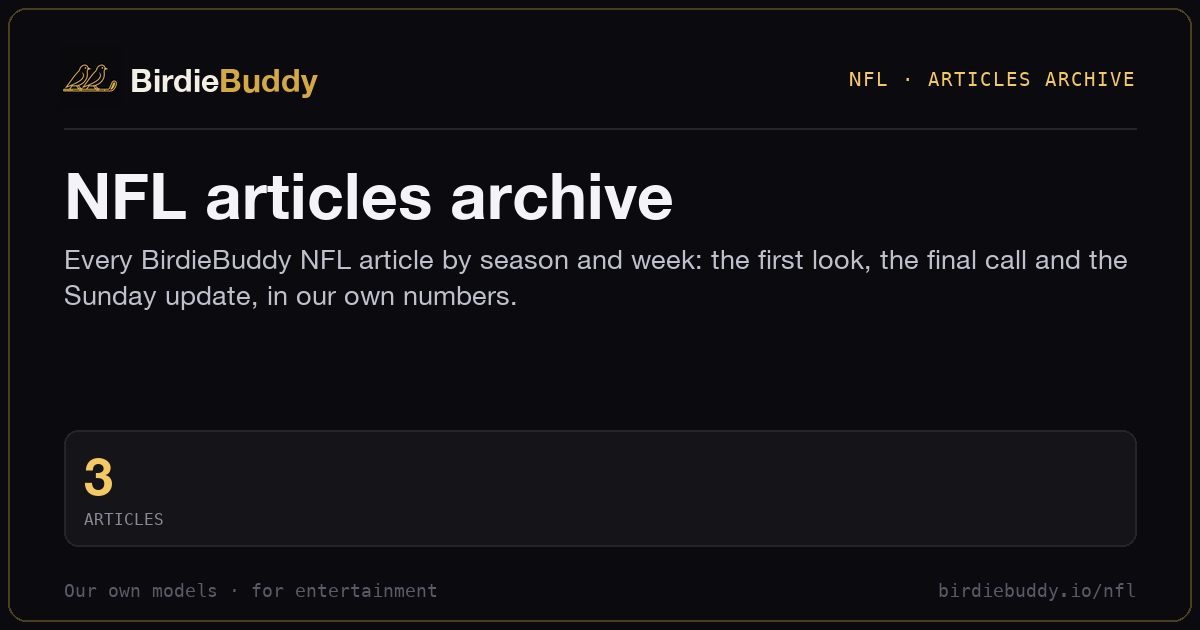
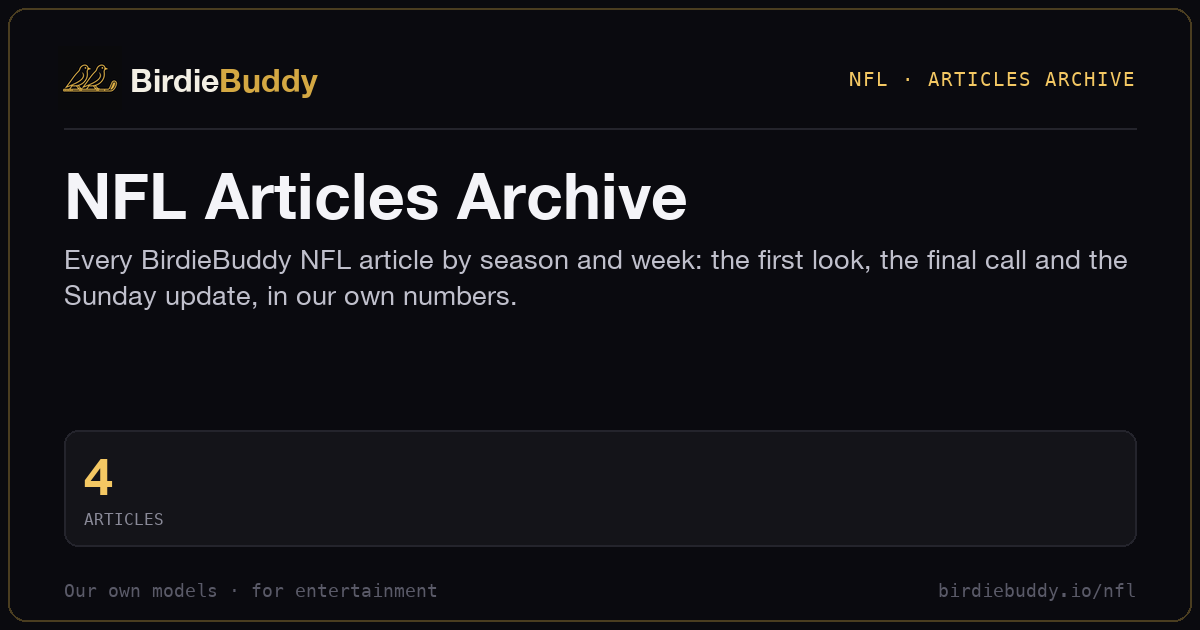
NFL: TNF CAR@GB write-up; article hero cards + clean canonical URLs; sitemap clean URLs + root/golf pages; robots sitemap line

Changed region(s): [[0.1542, 0.2714, 0.5858, 0.3619], [0.0617, 0.7238, 0.0925, 0.7841]]

diff --git a/nfl/articles/2026-week-8-tnf-car-gb.html b/nfl/articles/2026-week-8-tnf-car-gb.html
@@ -1,0 +1,91 @@
+<!doctype html>
+<html lang="en">
+<head>
+  <meta charset="utf-8" />
+  <meta name="viewport" content="width=device-width, initial-scale=1" />
+  <base href="/" />
+  <title>TNF showdown: the field captains Green Bay; Carolina&#x27;s upset is 26% · BirdieBuddy NFL</title>
+  <link rel="icon" type="image/png" sizes="32x32" href="assets/img/favicon-32.png">
+  <link rel="apple-touch-icon" sizes="180x180" href="assets/img/apple-touch-icon.png">
+  <link rel="preconnect" href="https://fonts.googleapis.com" />
+  <link rel="preconnect" href="https://fonts.gstatic.com" crossorigin />
+  <link href="https://fonts.googleapis.com/css2?family=Inter:wght@400;500;600;700;800&family=JetBrains+Mono:wght@400;500;600&display=swap" rel="stylesheet" />
+  <link rel="stylesheet" href="assets/css/design-system.css" />
+  <link rel="stylesheet" href="assets/css/components.css" />
+  <link rel="stylesheet" href="assets/css/nfl.css?v=0.6.4" />
+  <link rel="stylesheet" href="nfl/articles/articles.css?v=3" />
+  <!-- bbi-seo -->
+  <link rel="canonical" href="https://birdiebuddy.io/nfl/articles/2026-week-8-tnf-car-gb">
+  <meta name="description" content="The three most popular captains are all Packers, but the market gives Carolina a 26% chance to win by 4+. McMillan and Hubbard are the way in.">
+  <meta property="og:type" content="article">
+  <meta property="og:site_name" content="BirdieBuddy">
+  <meta property="og:title" content="TNF showdown: the field captains Green Bay; Carolina&#x27;s upset is 26%">
+  <meta property="og:description" content="The three most popular captains are all Packers, but the market gives Carolina a 26% chance to win by 4+. McMillan and Hubbard are the way in.">
+  <meta property="og:url" content="https://birdiebuddy.io/nfl/articles/2026-week-8-tnf-car-gb">
+  <meta property="og:image" content="https://birdiebuddy.io/nfl/og/2026-week-8-tnf-car-gb.png">
+  <meta property="og:image:width" content="1200">
+  <meta property="og:image:height" content="630">
+  <meta property="og:image:alt" content="TNF showdown: the field captains Green Bay; Carolina&#x27;s upset is 26%">
+  <meta name="twitter:card" content="summary_large_image">
+  <meta name="twitter:title" content="TNF showdown: the field captains Green Bay; Carolina&#x27;s upset is 26%">
+  <meta name="twitter:description" content="The three most popular captains are all Packers, but the market gives Carolina a 26% chance to win by 4+. McMillan and Hubbard are the way in.">
+  <meta name="twitter:image" content="https://birdiebuddy.io/nfl/og/2026-week-8-tnf-car-gb.png">
+  <!-- /bbi-seo -->
+</head>
+<body class="art-body">
+  <div id="site-header"><nav class="nfl-nav" aria-label="NFL"><div class="nfl-nav-inner"><a href="nfl/" class="brand nfl-brand"><img class="brand-mark-img" src="assets/img/mark-gold.svg" alt="" width="52" height="26" /><span class="brand-lockup">BirdieBuddy</span><span class="nfl-tag">NFL</span></a><div class="nfl-links"><a class="nfl-link" href="nfl/slate/">This week</a><a class="nfl-link active" href="nfl/articles/">Articles</a></div></div></nav></div>
+  <main class="container art-wrap art-page">
+    <nav class="art-crumbs"><a href="nfl/">NFL</a><span>/</span><a href="nfl/articles/">Articles</a></nav>
+    <article class="art">
+      <header class="art-head">
+        <div class="eyebrow">2026 · Week 8 · TNF showdown</div>
+        <h1>TNF showdown: the field captains Green Bay; Carolina&#x27;s upset is 26%</h1>
+        <p class="art-dek">The three most popular captains are all Packers, but the market gives Carolina a 26% chance to win by 4+. McMillan and Hubbard are the way in.</p>
+        <div class="art-byline"><time datetime="2026-10-29">Thu Oct 29, 2026</time> · CAR @ GB, kickoff Thu 8:15 PM ET · BirdieBuddy NFL · numbers as of 2026-10-29 19:16 UTC</div>
+      </header>
+      <figure class="art-hero-img has-img is-card" data-hero-slot="2026-week-8-tnf-car-gb"><img src="nfl/og/2026-week-8-tnf-car-gb.png" alt="TNF showdown: the field captains Green Bay; Carolina&#x27;s upset is 26%" width="1200" height="630" decoding="async"></figure>
+      <div class="art-body-md">
+<p>Green Bay is favored by 4, yet the market gives Carolina a 26% chance to win by 4+, more than a Packers blowout at 23%. The crowd doesn't care: the three most popular captains are all Packers, led by <strong>Jordan Love</strong> at a projected 15%.</p>
+<h2 id="tl-dr">TL;DR</h2>
+<ul><li>Start with Tetairoa McMillan at captain: a projected 9% captain ownership, and Carolina wins by 4+ in 26% of outcomes.</li><li>Eat Jordan Love at FLEX: he projects at 68% owned, the top projection on the board at 17.8.</li><li>Fade Josh Jacobs at captain (projected 14%) for Chuba Hubbard, a 14.9-point projection at 9%.</li></ul>
+<h2 id="the-game">The game</h2>
+<p>Green Bay is a 4-point favorite and wins 64% of the time in a deep market, with a 47 total split 25.5 to 21.6. Fav wins is the most likely flow at 28%, then Upset at 26%, Close at 24% and Blowout at 23%. <strong>Matthew Golden</strong> is Questionable with a 70% chance to play, and our showdown sim hasn't run yet, so there are no ceilings or optimal % here, only projections and ownership.</p>
+<div class="art-table art-data"><table><thead><tr><th>Game</th><th>Fav</th><th class="n">Total</th><th>Team totals</th><th title="favorite wins by 14+" class="n">Blowout</th><th title="favorite wins by 4–13" class="n">Fav wins</th><th title="within 3 either way" class="n">Close</th><th title="underdog wins by 4+" class="n">Upset</th></tr></thead><tbody><tr class="pt"><td><strong>CAR @ GB</strong><span class="sub">TNF · outdoors · wind 6 mph · 47°F</span></td><td>GB −4.0 · wins 64%</td><td class="n">47.0</td><td>CAR 21.6 · GB 25.5</td><td class="n">23%</td><td class="n">28%</td><td class="n">24%</td><td class="n">26%</td></tr></tbody></table></div><p class="art-cap">Line: market. Game-flow chances from the prediction markets: Blowout = GB wins by 14+, Fav wins = by 4–13, Close = within 3, Upset = CAR wins by 4+.</p>
+<h2 id="captain-picks">Captain picks</h2>
+<h3 id="1-tetairoa-mcmillan-car-wr">1. Tetairoa McMillan (CAR, WR)</h3>
+<ul><li><strong>Why:</strong> 13.4 points projected at a $14,100 captain salary, and he's Carolina's top receiver with Xavier Legette, Ja'seem Reed and Chris Brazzell II all Out. He wants Close or Upset, 50% combined. In our study of 41 showdown winners in games with a 3.5-6.5 point spread, 49% (k = 20) had a WR captain.</li><li><strong>Crowd:</strong> a projected 9% captain ownership. Risk: 59% of those winning captains (k = 24) came from the favorite.</li></ul>
+<h3 id="2-jordan-love-gb-qb">2. Jordan Love (GB, QB)</h3>
+<ul><li><strong>Why:</strong> the top projection at 17.8, at a $15,000 captain salary. He's the engine of a 25.5-point team total, and Fav wins plus Blowout cover 51% of outcomes.</li><li><strong>Crowd:</strong> the most popular captain at a projected 15%. Risk: at the top price, an average night sinks him.</li></ul>
+<h3 id="3-chuba-hubbard-car-rb">3. Chuba Hubbard (CAR, RB)</h3>
+<ul><li><strong>Why:</strong> 14.9 points projected, 0.4 behind Josh Jacobs, at a $13,500 captain salary. With Jonathon Brooks Out, the backfield is his, and a Close game keeps him fed.</li><li><strong>Crowd:</strong> a projected 9% captain vs 14% for Jacobs. Risk: a Green Bay blowout takes the run game away.</li></ul>
+<div class="art-table art-data"><table><thead><tr><th>Player</th><th class="n">Salary</th><th class="n">Proj</th><th>Ceiling</th><th>CPT ceiling</th><th class="n">FLEX own</th><th class="n">CPT own</th><th>FLEX optimal</th><th>CPT optimal</th></tr></thead><tbody><tr><td><strong>Jordan Love</strong><span class="sub">QB · GB</span></td><td class="n">$10,000</td><td class="n">17.8</td><td>—</td><td>—</td><td class="n">68%</td><td class="n">15%</td><td>—</td><td>—</td></tr><tr><td><strong>Bryce Young</strong><span class="sub">QB · CAR</span></td><td class="n">$9,600</td><td class="n">15.5</td><td>—</td><td>—</td><td class="n">46%</td><td class="n">10%</td><td>—</td><td>—</td></tr><tr><td><strong>Josh Jacobs</strong><span class="sub">RB · GB</span></td><td class="n">$8,800</td><td class="n">15.3</td><td>—</td><td>—</td><td class="n">36%</td><td class="n">14%</td><td>—</td><td>—</td></tr><tr><td><strong>Chuba Hubbard</strong><span class="sub">RB · CAR</span></td><td class="n">$9,000</td><td class="n">14.9</td><td>—</td><td>—</td><td class="n">33%</td><td class="n">9%</td><td>—</td><td>—</td></tr><tr><td><strong>Christian Watson</strong><span class="sub">WR · GB</span></td><td class="n">$9,800</td><td class="n">14.8</td><td>—</td><td>—</td><td class="n">37%</td><td class="n">12%</td><td>—</td><td>—</td></tr><tr><td><strong>Tetairoa McMillan</strong><span class="sub">WR · CAR</span></td><td class="n">$9,400</td><td class="n">13.4</td><td>—</td><td>—</td><td class="n">31%</td><td class="n">9%</td><td>—</td><td>—</td></tr><tr><td><strong>Tucker Kraft</strong><span class="sub">TE · GB</span></td><td class="n">$7,400</td><td class="n">13.2</td><td>—</td><td>—</td><td class="n">35%</td><td class="n">9%</td><td>—</td><td>—</td></tr><tr><td><strong>Matthew Golden</strong><span class="sub">WR · GB · Questionable</span></td><td class="n">$8,400</td><td class="n">12.4</td><td>—</td><td>—</td><td class="n">24%</td><td class="n">4%</td><td>—</td><td>—</td></tr><tr><td><strong>Jalen Coker</strong><span class="sub">WR · CAR</span></td><td class="n">$7,800</td><td class="n">10.9</td><td>—</td><td>—</td><td class="n">19%</td><td class="n">4%</td><td>—</td><td>—</td></tr><tr><td><strong>Darren Waller</strong><span class="sub">TE · CAR</span></td><td class="n">$5,400</td><td class="n">8.8</td><td>—</td><td>—</td><td class="n">22%</td><td class="n">3%</td><td>—</td><td>—</td></tr><tr><td><strong>Kedon Slovis</strong><span class="sub">QB · GB</span></td><td class="n">$6,000</td><td class="n">6.3</td><td>—</td><td>—</td><td class="n">0%</td><td class="n">0%</td><td>—</td><td>—</td></tr><tr><td><strong>Tyrod Taylor</strong><span class="sub">QB · GB</span></td><td class="n">$6,000</td><td class="n">6.3</td><td>—</td><td>—</td><td class="n">0%</td><td class="n">0%</td><td>—</td><td>—</td></tr></tbody></table></div><p class="art-cap">Salary = FLEX salary (captain costs 1.5x). Projection and ceiling: our salary + team-total projection. Own = our projected large-field ownership. — = no number yet.</p>
+<h2 id="value-plays">Value plays</h2>
+<ul><li><strong>Darren Waller</strong> (CAR, TE), $5,400: 8.8 points projected, the best value at 1.6 points per $1K, at a projected 22% FLEX. With three Carolina receivers Out, he's the second read.</li><li><strong>Savion Williams</strong> (GB, WR), $4,400: 6.1 projected at 17%. His role grows if Golden sits.</li><li><strong>MarShawn Lloyd</strong> (GB, RB), $3,800: 5.2 projected at 14%. Chris Brooks is Out, and a Blowout hands him late carries.</li></ul>
+<h2 id="chalk-we-ll-eat-chalk-we-ll-fade">Chalk we'll eat / chalk we'll fade</h2>
+<p class="art-label"><strong>Eat</strong></p>
+<ul><li><strong>Jordan Love</strong> at a projected 68% FLEX is in two of every three lineups. Fading the top projection is a bet against a 25.5-point team total.</li></ul>
+<p class="art-label"><strong>Fade</strong></p>
+<ul><li><strong>Josh Jacobs</strong> at captain, projected 14%. Pivot: <strong>Chuba Hubbard</strong>, projected 9% at captain for nearly the same points.</li><li><strong>Christian Watson</strong> at a projected 37% FLEX for $9,800 and 14.8 points. Pivot: <strong>Jalen Coker</strong>, $7,800, 10.9 projected at 19%, the cheaper way into Carolina's passing game.</li></ul>
+<h2 id="bottom-line">Bottom line</h2>
+<p>We start with McMillan at captain: the field stacks its captains on Green Bay, and Carolina wins or keeps it close in 50% of outcomes. Hubbard is the pivot off Jacobs. Check Golden before lock, because his 70% chance to play decides how Green Bay's targets split.</p>
+      </div>
+    </article>
+    <section class="art-method" id="how-we-build">
+      <h2>How we build these numbers</h2>
+      <ul>
+        <li><strong>Line and game flows</strong>: de-vigged prediction-market prices (Polymarket + Kalshi). Blowout = favorite wins by 14+, Fav wins = by 4–13, Close = within 3, Upset = underdog wins by 4+.</li>
+        <li><strong>Projections, ceilings and optimal %</strong>: our showdown simulator plays the game out in each of the four game flows, weighted by their market chances. Ceiling = about a 90th-percentile game; captain ceiling = 1.5x. Optimal % = how often a player is in the highest-scoring possible team, as captain or FLEX.</li>
+        <li><strong>Ownership</strong>: our own model, trained on DraftKings showdown results, shown as projected % for large-field contests. It ranks players well, but its levels are rough, and it under-calls late, news-driven value.</li>
+        <li><strong>The codex</strong>: our study of DraftKings showdown winning lineups (2018–25). Winner rates are shown with k and n.</li>
+      </ul>
+      <p class="art-rg">For entertainment. Not betting or financial advice. DFS involves real money and real risk. Play only what you can afford to lose, and only where it's legal (18+/21+ by state). Gambling problem? Call or text <a href="tel:18004264537">1-800-GAMBLER</a>.</p>
+    </section>
+
+    <script type="application/json" id="article-data">{"slug": "2026-week-8-tnf-car-gb", "title": "TNF showdown: the field captains Green Bay; Carolina's upset is 26%", "slot": "TNF", "week": 8, "season": 2026, "date": "2026-10-29", "game": "CAR@GB", "kickoff_et": "2026-10-29T20:15:00-04:00", "packet_generated_utc": "2026-10-29T19:16:19+00:00", "kind": "primetime showdown"}</script>
+  </main>
+  <div id="site-footer"></div>
+  <script src="assets/js/core.js"></script>
+  <script src="assets/js/nfl.js?v=0.6.4"></script>
+  <script>BBI.renderNflHeader('articles'); BBI.renderNflFooter('NFL · Articles');</script>
+</body>
+</html>

diff --git a/nfl/articles/index.html b/nfl/articles/index.html
@@ -20,8 +20,8 @@
   <link href="https://fonts.googleapis.com/css2?family=Inter:wght@400;500;600;700;800&family=JetBrains+Mono:wght@400;500;600&display=swap" rel="stylesheet" />
   <link rel="stylesheet" href="assets/css/design-system.css" />
   <link rel="stylesheet" href="assets/css/components.css" />
-  <link rel="stylesheet" href="assets/css/nfl.css?v=36cd24f753" />
-  <link rel="stylesheet" href="nfl/articles/articles.css?v=2" />
+  <link rel="stylesheet" href="assets/css/nfl.css?v=f7aa40ed0a" />
+  <link rel="stylesheet" href="nfl/articles/articles.css?v=3" />
 </head>
 <body class="art-body">
   <div id="site-header"><nav class="nfl-nav" aria-label="NFL"><div class="nfl-nav-inner"><a href="nfl/" class="brand nfl-brand"><img class="brand-mark-img" src="assets/img/mark-gold.svg" alt="" width="52" height="26" /><span class="brand-lockup">BirdieBuddy</span><span class="nfl-tag">NFL</span></a><div class="nfl-links"><a class="nfl-link" href="nfl/slate/">This week</a><a class="nfl-link active" href="nfl/articles/">Articles</a></div></div></nav></div>
@@ -32,19 +32,25 @@
       <p>Wednesday is the first look at the Sunday main slate and the primetime games. Friday is the final call, after the week's news, with the late-swap notes. Every number comes from our own market snaps, simulator and ownership model.</p>
     </section>
     <section class="art-list">
-      <a class="card card-hover art-card" href="nfl/articles/2026-week-8-wednesday.html">
+      <a class="card card-hover art-card" href="nfl/articles/2026-week-8-tnf-car-gb">
+        <div class="art-card-top"><span class="badge badge-gold">TNF</span><span class="art-card-date">Week 8 · Thu Oct 29</span></div>
+        <h3>TNF showdown: the field captains Green Bay; Carolina&#x27;s upset is 26%</h3>
+        <p>The three most popular captains are all Packers, but the market gives Carolina a 26% chance to win by 4+. McMillan and Hubbard are the way in.</p>
+        <p class="art-card-tl">Start with Tetairoa McMillan at captain: a projected 9% captain ownership, and Carolina wins by 4+ in 26% of outcomes.</p>
+      </a>
+      <a class="card card-hover art-card" href="nfl/articles/2026-week-8-wednesday">
         <div class="art-card-top"><span class="badge badge-gold">Wednesday</span><span class="art-card-date">Week 8 · Wed Oct 28</span></div>
         <h3>Week 8 first look: Dallas&#x27;s 30.9-point total and the crowd chasing it</h3>
         <p>Dallas is the slate&#x27;s best stack and the field knows it; Burrow and Lawrence offer quieter, cheaper ways to win Week 8.</p>
         <p class="art-card-tl">Stack Prescott, Lamb and Pickens: the slate&#x27;s best stack clears 75 points in 21% of sims, but expect a crowd.</p>
       </a>
-      <a class="card card-hover art-card" href="nfl/articles/2026-week-6-saturday.html">
+      <a class="card card-hover art-card" href="nfl/articles/2026-week-6-saturday">
         <div class="art-card-top"><span class="badge badge-gold">Saturday</span><span class="art-card-date">Week 6 · Sat Oct 17</span></div>
         <h3>Week 6 final read: Stafford&#x27;s stack and the Bears&#x27; QB question</h3>
         <p>LAR&#x27;s 32-point team total still leads the main slate; Chicago&#x27;s QB status is the news most likely to move builds before lock.</p>
         <p class="art-card-tl">Build around Matthew Stafford + Puka Nacua + Davante Adams: 24% of our 10,000 sims clear 75 DK points, the best rate on the slate.</p>
       </a>
-      <a class="card card-hover art-card" href="nfl/articles/2026-week-6-wednesday.html">
+      <a class="card card-hover art-card" href="nfl/articles/2026-week-6-wednesday">
         <div class="art-card-top"><span class="badge badge-gold">Wednesday</span><span class="art-card-date">Week 6 · Wed Oct 14</span></div>
         <h3>Week 6 first look: Rams at 32.5 and Cousins over Allen</h3>
         <p>The Rams&#x27; 32.5 team total anchors the slate, and the mid-owned Cousins stack clears 75 as often as the second-best Stafford build.</p>
@@ -67,7 +73,7 @@
   </main>
   <div id="site-footer"></div>
   <script src="assets/js/core.js"></script>
-  <script src="assets/js/nfl.js?v=36cd24f753"></script>
+  <script src="assets/js/nfl.js?v=f7aa40ed0a"></script>
   <script>BBI.renderNflHeader('articles'); BBI.renderNflFooter('NFL · Articles');</script>
 </body>
 </html>

diff --git a/nfl/articles/archive.html b/nfl/articles/archive.html
@@ -19,13 +19,13 @@
     .ar-week { font-family: var(--font-mono); font-size: var(--fs-2xs); color: var(--text-muted); letter-spacing: .05em; text-transform: uppercase; margin: 18px 0 6px; }
   </style>
   <!-- bbi-seo -->
-  <link rel="canonical" href="https://birdiebuddy.io/nfl/articles/archive.html">
+  <link rel="canonical" href="https://birdiebuddy.io/nfl/articles/archive">
   <meta name="description" content="Every BirdieBuddy NFL article by season and week: the first look, the final call and the Sunday update, in our own numbers.">
   <meta property="og:type" content="website">
   <meta property="og:site_name" content="BirdieBuddy">
   <meta property="og:title" content="NFL Articles Archive">
   <meta property="og:description" content="Every BirdieBuddy NFL article by season and week: the first look, the final call and the Sunday update, in our own numbers.">
-  <meta property="og:url" content="https://birdiebuddy.io/nfl/articles/archive.html">
+  <meta property="og:url" content="https://birdiebuddy.io/nfl/articles/archive">
   <meta property="og:image" content="https://birdiebuddy.io/nfl/og/articles-archive.png">
   <meta property="og:image:width" content="1200">
   <meta property="og:image:height" content="630">
@@ -48,20 +48,26 @@
     <h2 class="ar-season">2026 season</h2>
     <section class="art-list">
       <div class="ar-week">Week 8</div>
-      <a class="card card-hover art-card" href="nfl/articles/2026-week-8-wednesday.html">
+      <a class="card card-hover art-card" href="nfl/articles/2026-week-8-tnf-car-gb">
+        <div class="art-card-top"><span class="badge badge-gold">Thursday night showdown</span><span class="art-card-date">Week 8 · Thu Oct 29</span></div>
+        <h3>TNF showdown: the field captains Green Bay; Carolina&#x27;s upset is 26%</h3>
+        <p>The three most popular captains are all Packers, but the market gives Carolina a 26% chance to win by 4+. McMillan and Hubbard are the way in.</p>
+        <p class="art-card-tl">Start with Tetairoa McMillan at captain: a projected 9% captain ownership, and Carolina wins by 4+ in 26% of outcomes.</p>
+      </a>
+      <a class="card card-hover art-card" href="nfl/articles/2026-week-8-wednesday">
         <div class="art-card-top"><span class="badge badge-gold">Wednesday first look</span><span class="art-card-date">Week 8 · Wed Oct 28</span></div>
         <h3>Week 8 first look: Dallas&#x27;s 30.9-point total and the crowd chasing it</h3>
         <p>Dallas is the slate&#x27;s best stack and the field knows it; Burrow and Lawrence offer quieter, cheaper ways to win Week 8.</p>
         <p class="art-card-tl">Stack Prescott, Lamb and Pickens: the slate&#x27;s best stack clears 75 points in 21% of sims, but expect a crowd.</p>
       </a>
       <div class="ar-week">Week 6</div>
-      <a class="card card-hover art-card" href="nfl/articles/2026-week-6-saturday.html">
+      <a class="card card-hover art-card" href="nfl/articles/2026-week-6-saturday">
         <div class="art-card-top"><span class="badge badge-gold">Saturday final read</span><span class="art-card-date">Week 6 · Sat Oct 17</span></div>
         <h3>Week 6 final read: Stafford&#x27;s stack and the Bears&#x27; QB question</h3>
         <p>LAR&#x27;s 32-point team total still leads the main slate; Chicago&#x27;s QB status is the news most likely to move builds before lock.</p>
         <p class="art-card-tl">Build around Matthew Stafford + Puka Nacua + Davante Adams: 24% of our 10,000 sims clear 75 DK points, the best rate on the slate.</p>
       </a>
-      <a class="card card-hover art-card" href="nfl/articles/2026-week-6-wednesday.html">
+      <a class="card card-hover art-card" href="nfl/articles/2026-week-6-wednesday">
         <div class="art-card-top"><span class="badge badge-gold">Wednesday first look</span><span class="art-card-date">Week 6 · Wed Oct 14</span></div>
         <h3>Week 6 first look: Rams at 32.5 and Cousins over Allen</h3>
         <p>The Rams&#x27; 32.5 team total anchors the slate, and the mid-owned Cousins stack clears 75 as often as the second-best Stafford build.</p>

diff --git a/nfl/articles/2026-week-8-wednesday.html b/nfl/articles/2026-week-8-wednesday.html
@@ -12,16 +12,16 @@
   <link href="https://fonts.googleapis.com/css2?family=Inter:wght@400;500;600;700;800&family=JetBrains+Mono:wght@400;500;600&display=swap" rel="stylesheet" />
   <link rel="stylesheet" href="assets/css/design-system.css" />
   <link rel="stylesheet" href="assets/css/components.css" />
-  <link rel="stylesheet" href="assets/css/nfl.css?v=36cd24f753" />
-  <link rel="stylesheet" href="nfl/articles/articles.css?v=2" />
+  <link rel="stylesheet" href="assets/css/nfl.css?v=f7aa40ed0a" />
+  <link rel="stylesheet" href="nfl/articles/articles.css?v=3" />
   <!-- bbi-seo -->
-  <link rel="canonical" href="https://birdiebuddy.io/nfl/articles/2026-week-8-wednesday.html">
+  <link rel="canonical" href="https://birdiebuddy.io/nfl/articles/2026-week-8-wednesday">
   <meta name="description" content="Dallas is the slate&#x27;s best stack and the field knows it; Burrow and Lawrence offer quieter, cheaper ways to win Week 8.">
   <meta property="og:type" content="article">
   <meta property="og:site_name" content="BirdieBuddy">
   <meta property="og:title" content="Week 8 first look: Dallas&#x27;s 30.9-point total and the crowd chasing it">
   <meta property="og:description" content="Dallas is the slate&#x27;s best stack and the field knows it; Burrow and Lawrence offer quieter, cheaper ways to win Week 8.">
-  <meta property="og:url" content="https://birdiebuddy.io/nfl/articles/2026-week-8-wednesday.html">
+  <meta property="og:url" content="https://birdiebuddy.io/nfl/articles/2026-week-8-wednesday">
   <meta property="og:image" content="https://birdiebuddy.io/nfl/og/2026-week-8-wednesday.png">
   <meta property="og:image:width" content="1200">
   <meta property="og:image:height" content="630">
@@ -43,7 +43,7 @@
         <p class="art-dek">Dallas is the slate&#x27;s best stack and the field knows it; Burrow and Lawrence offer quieter, cheaper ways to win Week 8.</p>
         <div class="art-byline"><time datetime="2026-10-28">Wed Oct 28, 2026</time> · BirdieBuddy NFL · numbers as of 2026-10-28 23:30 UTC</div>
       </header>
-      <figure class="art-hero-img is-placeholder" data-hero-slot="2026-week-8-wednesday" aria-hidden="true"><div class="art-hero-ph"><img class="art-hero-mark" src="assets/img/mark-gold.svg" alt="" width="52" height="26"><span class="art-hero-k">BirdieBuddy NFL</span><span class="art-hero-l">Week 8 · Wednesday first look</span></div></figure>
+      <figure class="art-hero-img has-img is-card" data-hero-slot="2026-week-8-wednesday"><img src="nfl/og/2026-week-8-wednesday.png" alt="Week 8 first look: Dallas&#x27;s 30.9-point total and the crowd chasing it" width="1200" height="630" decoding="async"></figure>
       <div class="art-body-md">
 <p>Dallas carries a 30.9-point team total, the biggest on the main slate, and its top stack clears 75 DK points in 21% of our 10,000 sims. The field sees it too: <strong>CeeDee Lamb</strong> projects at 33% owned and <strong>Dak Prescott</strong> at 26%, both higher in single entry. We build Dallas, then look for quieter routes around it.</p>
 <h2 id="tl-dr">TL;DR</h2>
@@ -101,7 +101,7 @@
   </main>
   <div id="site-footer"></div>
   <script src="assets/js/core.js"></script>
-  <script src="assets/js/nfl.js?v=36cd24f753"></script>
+  <script src="assets/js/nfl.js?v=f7aa40ed0a"></script>
   <script>BBI.renderNflHeader('articles'); BBI.renderNflFooter('NFL · Articles');</script>
 </body>
 </html>

diff --git a/nfl/articles/2026-week-6-saturday.html b/nfl/articles/2026-week-6-saturday.html
@@ -15,13 +15,13 @@
   <link rel="stylesheet" href="assets/css/nfl.css?v=0.6.3" />
   <link rel="stylesheet" href="nfl/articles/articles.css?v=1" />
   <!-- bbi-seo -->
-  <link rel="canonical" href="https://birdiebuddy.io/nfl/articles/2026-week-6-saturday.html">
+  <link rel="canonical" href="https://birdiebuddy.io/nfl/articles/2026-week-6-saturday">
   <meta name="description" content="LAR&#x27;s 32-point team total still leads the main slate; Chicago&#x27;s QB status is the news most likely to move builds before lock.">
   <meta property="og:type" content="article">
   <meta property="og:site_name" content="BirdieBuddy">
   <meta property="og:title" content="Week 6 final read: Stafford&#x27;s stack and the Bears&#x27; QB question">
   <meta property="og:description" content="LAR&#x27;s 32-point team total still leads the main slate; Chicago&#x27;s QB status is the news most likely to move builds before lock.">
-  <meta property="og:url" content="https://birdiebuddy.io/nfl/articles/2026-week-6-saturday.html">
+  <meta property="og:url" content="https://birdiebuddy.io/nfl/articles/2026-week-6-saturday">
   <meta property="og:image" content="https://birdiebuddy.io/nfl/og/2026-week-6-saturday.png">
   <meta property="og:image:width" content="1200">
   <meta property="og:image:height" content="630">

diff --git a/nfl/articles/2026-week-6-wednesday.html b/nfl/articles/2026-week-6-wednesday.html
@@ -15,13 +15,13 @@
   <link rel="stylesheet" href="assets/css/nfl.css?v=0.6.3" />
   <link rel="stylesheet" href="nfl/articles/articles.css?v=1" />
   <!-- bbi-seo -->
-  <link rel="canonical" href="https://birdiebuddy.io/nfl/articles/2026-week-6-wednesday.html">
+  <link rel="canonical" href="https://birdiebuddy.io/nfl/articles/2026-week-6-wednesday">
   <meta name="description" content="The Rams&#x27; 32.5 team total anchors the slate, and the mid-owned Cousins stack clears 75 as often as the second-best Stafford build.">
   <meta property="og:type" content="article">
   <meta property="og:site_name" content="BirdieBuddy">
   <meta property="og:title" content="Week 6 first look: Rams at 32.5 and Cousins over Allen">
   <meta property="og:description" content="The Rams&#x27; 32.5 team total anchors the slate, and the mid-owned Cousins stack clears 75 as often as the second-best Stafford build.">
-  <meta property="og:url" content="https://birdiebuddy.io/nfl/articles/2026-week-6-wednesday.html">
+  <meta property="og:url" content="https://birdiebuddy.io/nfl/articles/2026-week-6-wednesday">
   <meta property="og:image" content="https://birdiebuddy.io/nfl/og/2026-week-6-wednesday.png">
   <meta property="og:image:width" content="1200">
   <meta property="og:image:height" content="630">

diff --git a/nfl/articles/articles.css b/nfl/articles/articles.css
@@ -178,6 +178,10 @@
   .art-hero-ph { left: var(--space-8); bottom: var(--space-8); }
   .art-page > .art-method { padding: var(--space-6) var(--space-8); }
 }
+/* automatic hero = the article's 1200x630 share card (title, week / slot, mark): shown whole at reading width, never cropped */
+.art-page .art-hero-img.is-card { max-width: var(--art-measure); }
+.art-hero-img.has-img.is-card { aspect-ratio: 1200 / 630; }
+.art-hero-img.is-card > img { object-fit: contain; }
 @media (min-width: 900px) {
   .art-index .art-list { grid-template-columns: repeat(2, minmax(0, 1fr)); }
 }
